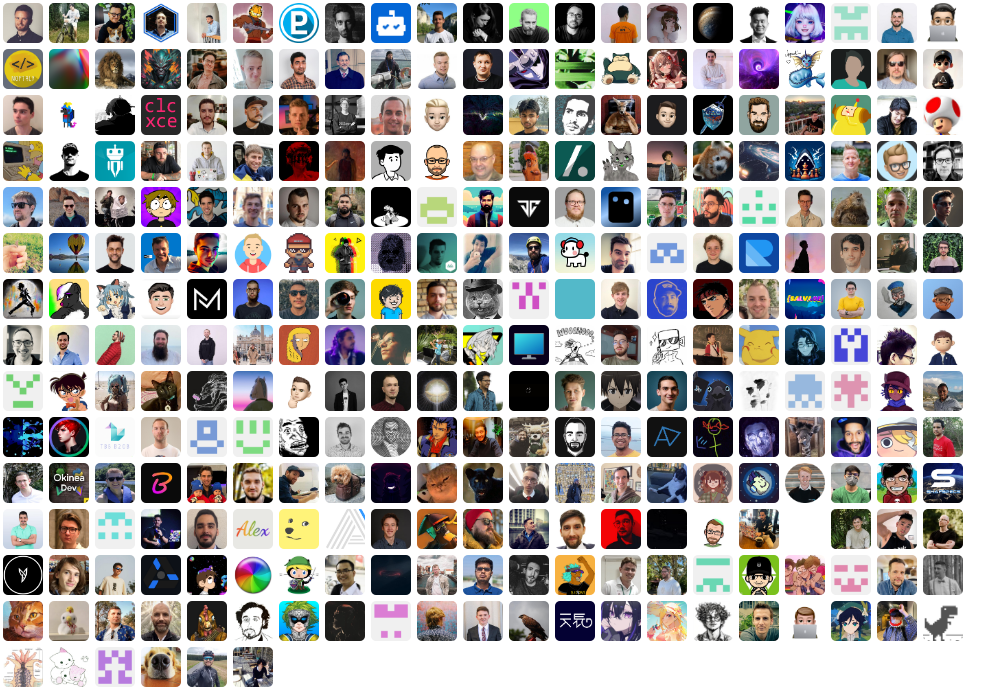
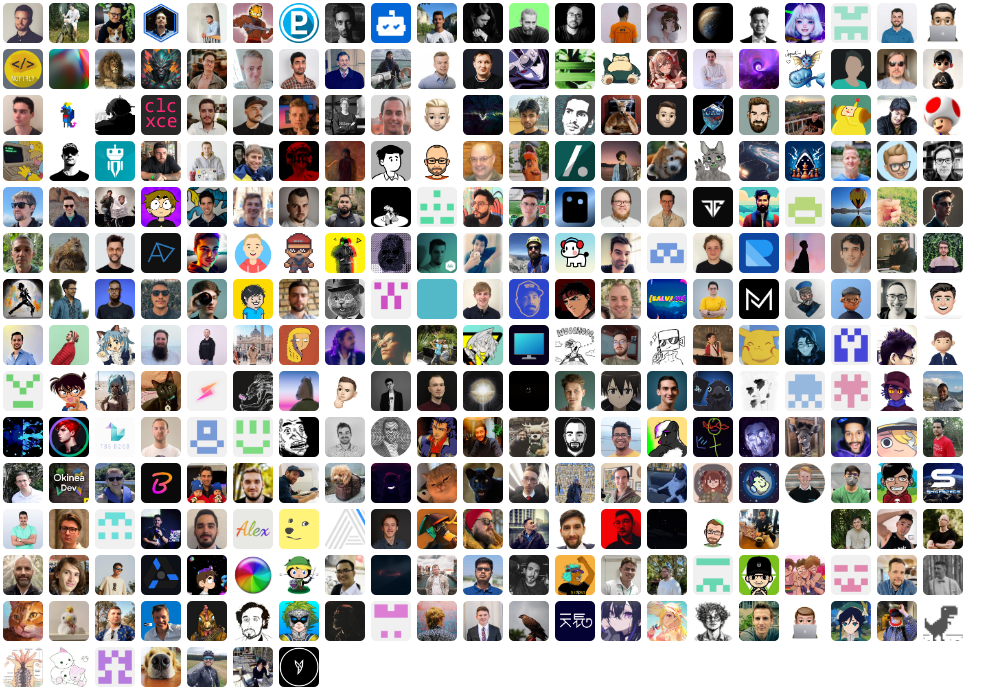
release: 🔖 v0.44.0

diff --git a/CHANGELOG.md b/CHANGELOG.md
@@ -3,10 +3,19 @@
  All notable changes to this project will be documented in this file. Dates are displayed in UTC.
 
  
+#### [v0.44.0](https://github.com/lucodear/lucodear-icons/compare/v0.43.0...v0.44.0) 
+
+> May 3, 2024 
+
+- test: 🧪 fix failing tests due to angular not being default [`dfd2de1b`](https://github.com/lucodear/lucodear-icons/commit/dfd2de1b)
+- feat: ✨ improve many icons [`2e039bde`](https://github.com/lucodear/lucodear-icons/commit/2e039bde)
+- feat(i18n): Add missing japanese translate [`#2313`](https://github.com/lucodear/lucodear-icons/pull/2313)
+ 
 #### [v0.43.0](https://github.com/lucodear/lucodear-icons/compare/v0.42.0...v0.43.0) 
 
 > April 26, 2024 
 
+- release: 🔖 v0.43.0 [`503c5a6f`](https://github.com/lucodear/lucodear-icons/commit/503c5a6f)
 - fix: 🚑 export setFolderNames [`2a5c52f2`](https://github.com/lucodear/lucodear-icons/commit/2a5c52f2)
 - Add seeders folder icons [`#2298`](https://github.com/lucodear/lucodear-icons/pull/2298)
 - Pseudo-wildcard support for folder icons [`#2292`](https://github.com/lucodear/lucodear-icons/pull/2292)
